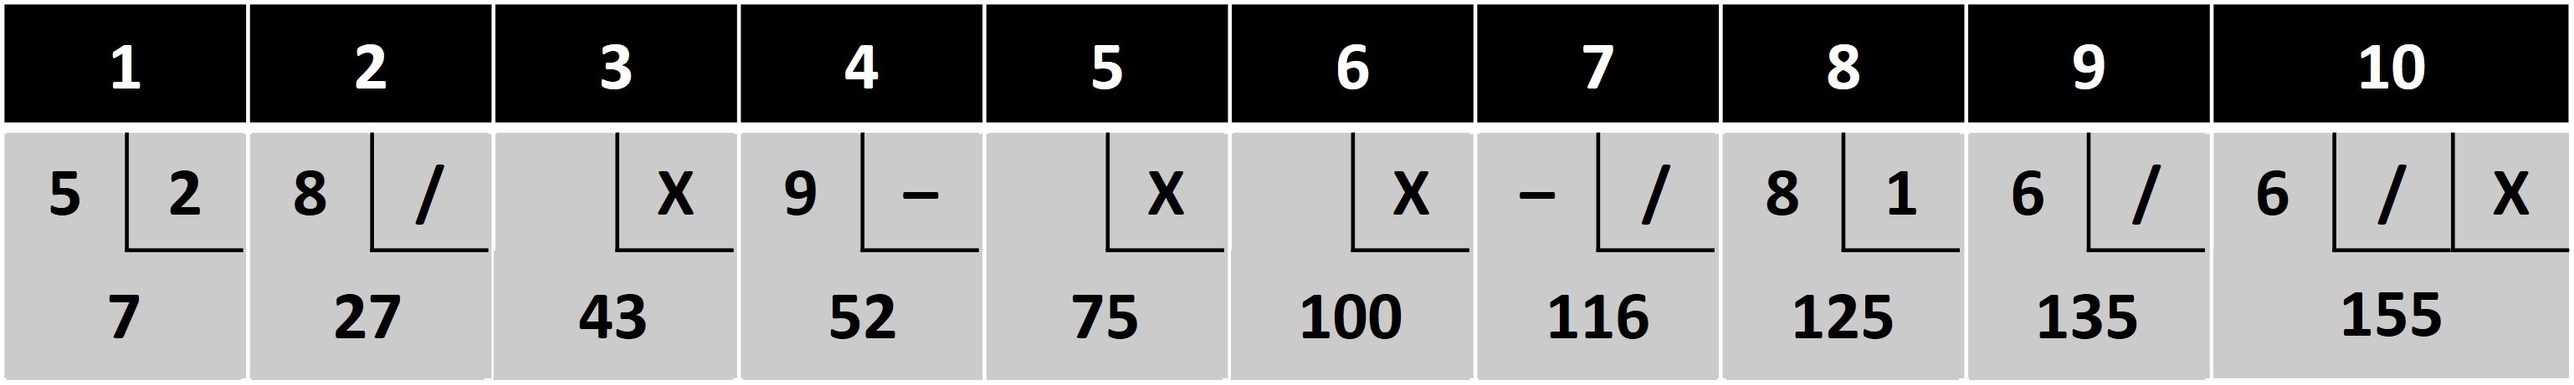
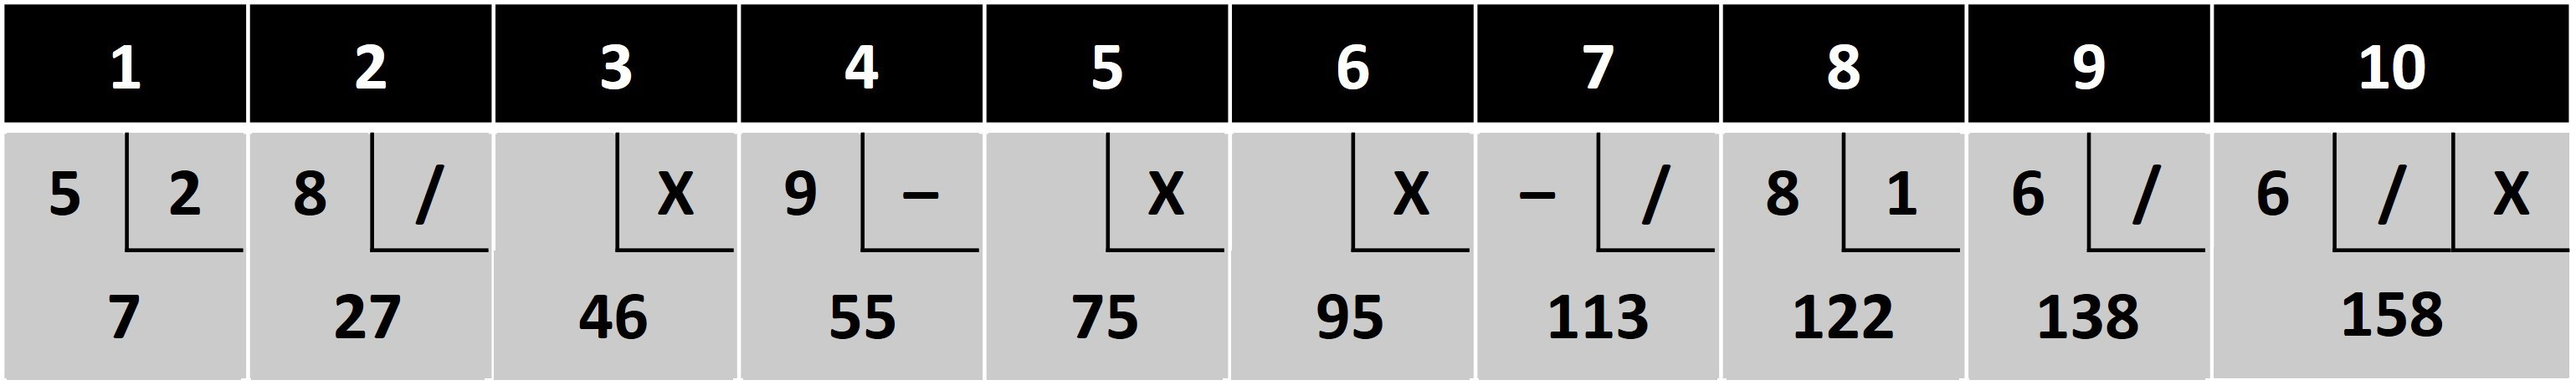
update readme

diff --git a/README.md b/README.md
@@ -48,48 +48,50 @@
 - 第二格
   - 第一次投擲 8 分
   - 第二次投擲 Spare
-  - Bonus 再投擲一球得 10 分
+  - Bonus 為下一球擊倒分數
   - 總得分 27 分 ( 7 + 8 + 2 + 10 )
 - 第三格
   - 第一次投擲 Strike
-  - Bonus 再投擲兩球得 6 分
-  - 總得分 43 分 ( 27 + 10 + 6 )
+  - Bonus 為下兩球擊倒分數
+  - 總得分 46 分 ( 27 + 10 + 9 + 0 )
 - 第四格
   - 第一次投擲 9 分
   - 第二次投擲 洗溝
-  - 總得分 52 分 ( 43 + 9 + 0 )
+  - 總得分 55 分 ( 46 + 9 + 0 )
 - 第五格
   - 第一次投擲 Strike
-  - Bonus 再投擲兩球得 13 分
-  - 總得分 75 分 ( 52 + 10 + 13 )
+  - Bonus 為下兩球擊倒分數
+  - 總得分 75 分 ( 55 + 10 + 10 + 0 )
 - 第六格
   - 第一次投擲 Strike
-  - Bonus 再投擲兩球得 15 分
-  - 總得分 100 分 ( 75 + 10 + 15 )
+  - Bonus 為下兩球擊倒分數
+  - 總得分 95 分 ( 75 + 10 + 0 + 10 )
 - 第七格
   - 第一次投擲 洗溝
   - 第二次投擲 Spare
-  - Bonus 再投擲一球得 6 分
-  - 總得分 116 分 ( 100 + 0 + 10 + 6 )
+  - Bonus 為下一球擊倒分數
+  - 總得分 113 分 ( 95 + 0 + 10 + 8 )
 - 第八格
   - 第一次投擲 8 分
   - 第二次投擲 1 分
-  - 總得分 125 分 ( 116 + 8 + 1 )
+  - 總得分 122 分 ( 113 + 8 + 1 )
 - 第九格
   - 第一次投擲 6 分
   - 第二次投擲 Spare
-  - 總得分 135 分 ( 125 + 6 + 4 )
+  - Bonus 為下一球擊倒分數
+  - 總得分 138 分 ( 125 + 6 + 4 + 6 )
 - 第十格
   - 第一次投擲 6 分
   - 第二次投擲 Spare
-  - Bonus 再投擲一球得 10 分
-  - 總得分 155 分 ( 135 + 6 + 4 + 10 )
-### code 設計
-|||
-| :----: | :---- |
-| class | Game |
-| methods | + roll (pins:int)<br>+ score():int |
+  - Spare 可再投擲一球得 10 分
+  - 總得分 158 分 ( 138 + 6 + 4 + 10 )
 
+### code design
+| class | methods |
+| :----: | :----: |
+| Game | + roll (pins:int)<br>+ score():int |
 #### class 名稱為 Game，它有兩個 methods
 #### roll (pins : int)：每投擲 1 顆球就呼叫此方法一次，參數為當球擊倒的瓶數
 #### score()：所有球打完後呼叫此方法，會回傳總分，型態為 int
+
+### 測試案例
